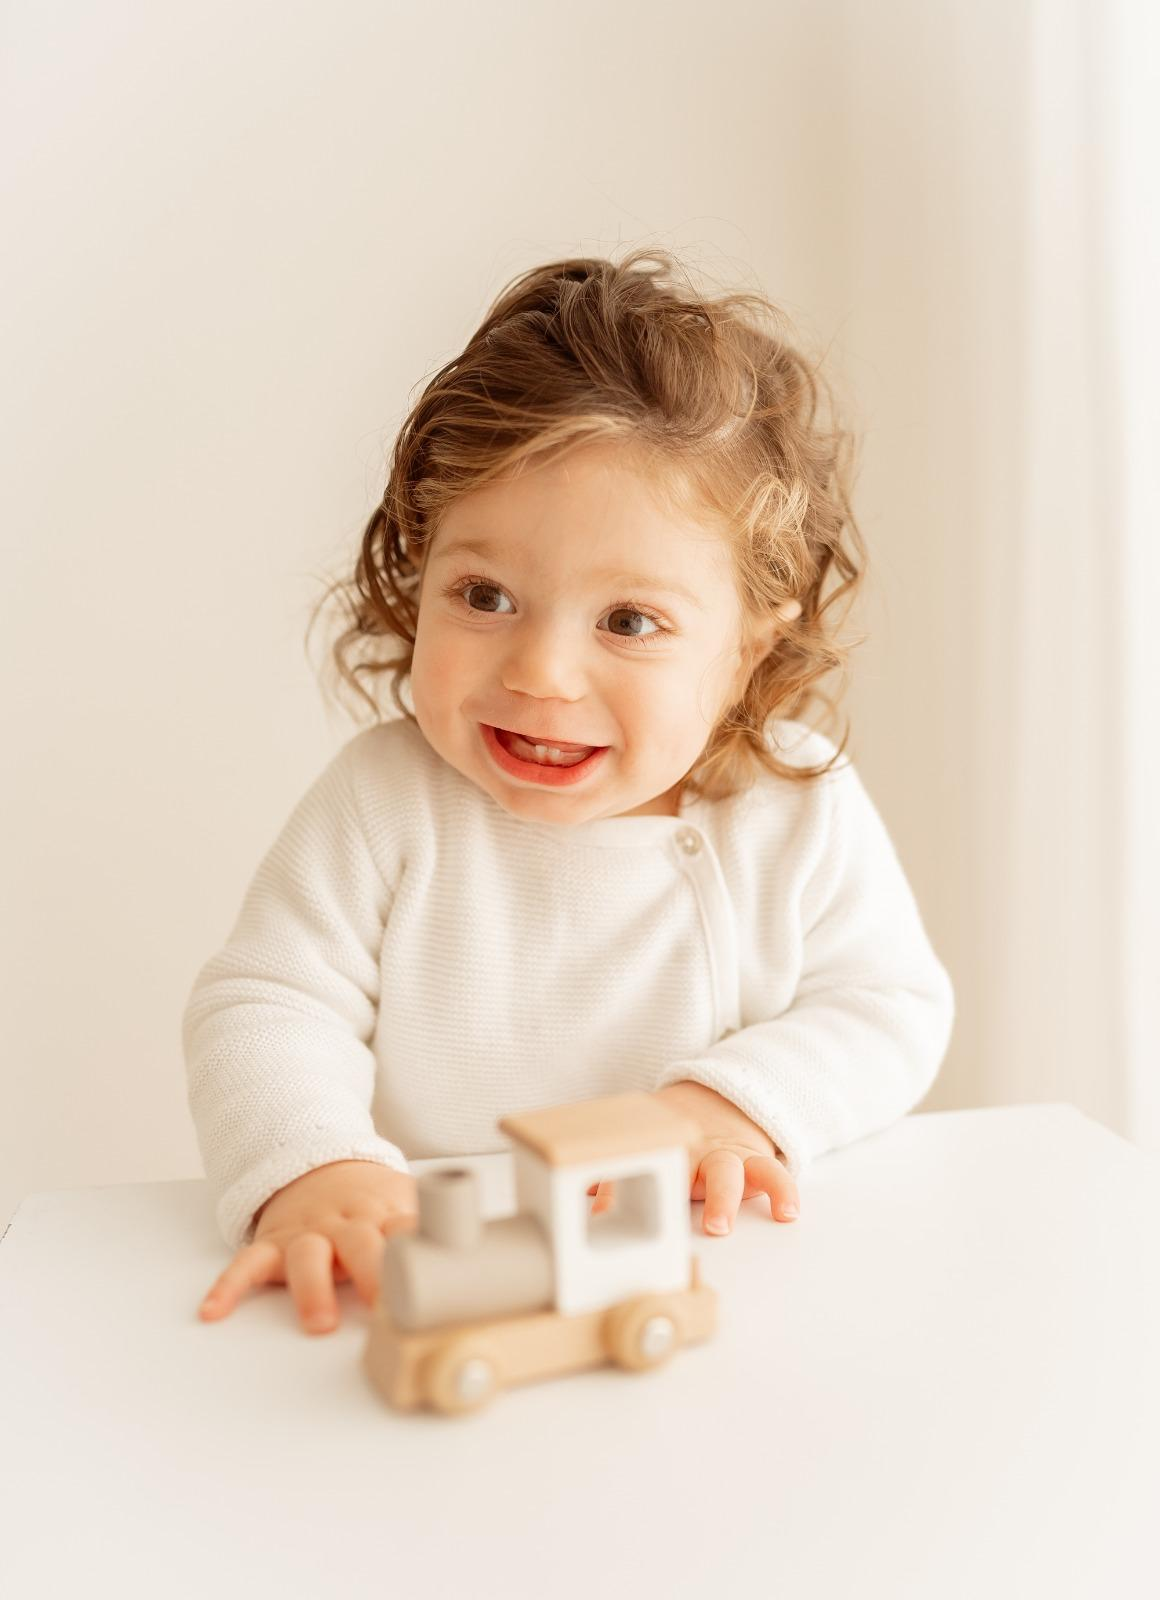
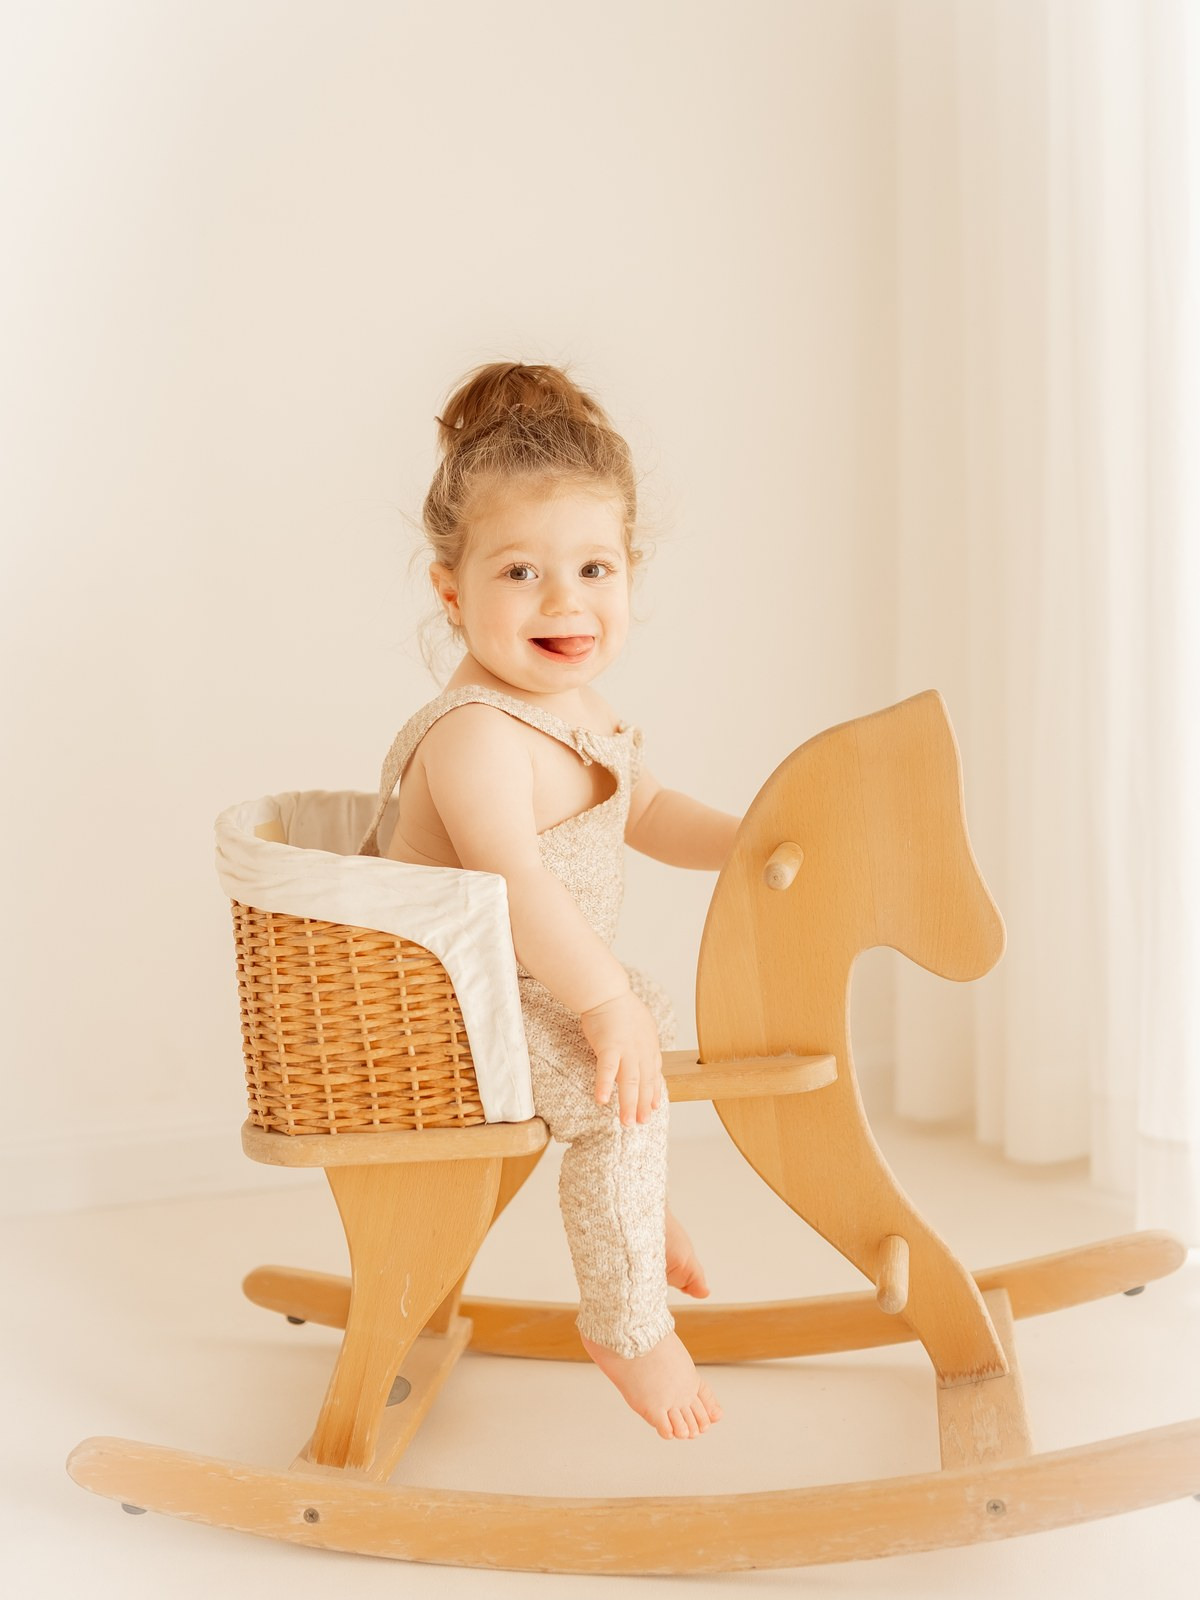
Rebrand: Pickup Planner → Roditi Family Planner + new Yali photo
Brand:
- App name across PWA manifest, root layout title, header, landing page,
  demo-login, email subjects/signatures, WhatsApp invite copy, cron emails.
- Icons (favicon + Apple touch icon): "P" → "R" on the sage square.
- Header logo: 2-line lockup ("Roditi" in display serif over the small-caps
  "Family Planner" tagline) with a refined 8x8 sage tile.
- Landing + demo-login pick up the same 2-line lockup.

Yali photo:
- New full-body rocking-horse portrait swapped in (sourced from "Yali new.JPG"
  in Downloads, processed through PIL to a web-friendly 1200×1600 / Q88).
- ChildAvatar Yali object-position bumped to 50% 22% so the new framing
  shows her face cleanly when the avatar container is taller than 3:4.

diff --git a/app/(app)/layout.tsx b/app/(app)/layout.tsx
@@ -13,9 +13,12 @@ export default async function AppLayout({ children }: { children: React.ReactNod
     <div className="min-h-screen flex flex-col">
       <header className="border-b border-black/5 bg-cream-50/80 backdrop-blur sticky top-0 z-10">
         <div className="mx-auto max-w-7xl px-3 sm:px-5 h-14 flex items-center gap-2 justify-between">
-          <Link href={isAdmin ? '/admin' : '/my-pickups'} className="flex items-center gap-2">
-            <div className="h-7 w-7 rounded-lg bg-sage-500 grid place-items-center text-cream-50 font-display">P</div>
-            <span className="font-display text-base">Pickup Planner</span>
+          <Link href={isAdmin ? '/admin' : '/my-pickups'} className="flex items-center gap-2.5">
+            <div className="h-8 w-8 rounded-lg bg-sage-500 grid place-items-center text-cream-50 font-display text-base shadow-sm">R</div>
+            <div className="leading-tight">
+              <div className="font-display text-base sm:text-[17px] tracking-tight leading-none">Roditi</div>
+              <div className="text-[10px] uppercase tracking-[0.18em] text-ink-700/55 font-semibold leading-none mt-0.5">Family Planner</div>
+            </div>
           </Link>
           <nav className="flex items-center gap-0.5 text-sm">
             {isAdmin && <NavLink href="/admin">Dashboard</NavLink>}

diff --git a/lib/notify.ts b/lib/notify.ts
@@ -27,7 +27,7 @@ export const emailProvider: NotifyProvider = {
     }
     const resend = new Resend(process.env.RESEND_API_KEY);
     const { data, error } = await resend.emails.send({
-      from: process.env.REMINDER_FROM_EMAIL || 'Pickup Planner <onboarding@resend.dev>',
+      from: process.env.REMINDER_FROM_EMAIL || 'Roditi Family Planner <onboarding@resend.dev>',
       to,
       subject,
       text: body,
@@ -59,7 +59,7 @@ export function renderReminder(slot: SlotView) {
   if (dest) lines.push(`Drop off at: ${dest}${destAddr ? ` (${destAddr})` : ''}`);
   if (slot.notes) lines.push(`Note: ${slot.notes}`);
   lines.push('');
-  lines.push('— Pickup Planner');
+  lines.push('— Roditi Family Planner');
 
   return {
     subject: `Today: pick up ${slot.child.name} at ${slot.pickup_time.slice(0, 5)} from ${pickup}`,
@@ -131,7 +131,7 @@ export function renderClaimConfirmation(slot: SlotView, helperName: string | nul
     lines.push(slot.notes);
     lines.push('');
   }
-  lines.push('— Pickup Planner');
+  lines.push('— Roditi Family Planner');
 
   return {
     subject: `Pickup confirmed: ${kidNames} on ${dateLabel} at ${time}`,

diff --git a/app/demo-login/page.tsx b/app/demo-login/page.tsx
@@ -30,10 +30,10 @@ export default function DemoLogin() {
     <main className="min-h-screen grid place-items-center px-6 py-10">
       <div className="w-full max-w-xl">
         <div className="flex items-center gap-3 mb-8">
-          <div className="h-10 w-10 rounded-xl bg-sage-500 grid place-items-center text-cream-50 font-display text-xl">P</div>
-          <div>
-            <div className="font-display text-xl leading-none">Pickup Planner</div>
-            <div className="text-xs text-ink-700/60 mt-0.5">Demo — sign in as anyone in the family</div>
+          <div className="h-11 w-11 rounded-2xl bg-sage-500 grid place-items-center text-cream-50 font-display text-xl">R</div>
+          <div className="leading-tight">
+            <div className="font-display text-xl leading-none tracking-tight">Roditi</div>
+            <div className="text-[10px] uppercase tracking-[0.2em] text-ink-700/55 font-semibold mt-1">Family Planner</div>
           </div>
         </div>
 

diff --git a/app/page.tsx b/app/page.tsx
@@ -50,10 +50,10 @@ export default async function Landing() {
       <div className="mx-auto max-w-md px-5 sm:px-6 pt-10 sm:pt-14 pb-16">
         {/* Brand */}
         <div className="flex items-center gap-3 mb-8">
-          <div className="h-11 w-11 rounded-xl bg-sage-500 grid place-items-center text-cream-50 font-display text-xl shadow-sm">P</div>
-          <div>
-            <div className="font-display text-xl leading-none">Pickup Planner</div>
-            <div className="text-xs text-ink-700/60 mt-0.5">The Roditi family</div>
+          <div className="h-12 w-12 rounded-2xl bg-sage-500 grid place-items-center text-cream-50 font-display text-2xl shadow-sm">R</div>
+          <div className="leading-tight">
+            <div className="font-display text-xl leading-none tracking-tight">Roditi</div>
+            <div className="text-[10px] uppercase tracking-[0.2em] text-ink-700/55 font-semibold mt-1">Family Planner</div>
           </div>
         </div>
 

diff --git a/components/ChildAvatar.tsx b/components/ChildAvatar.tsx
@@ -1,15 +1,15 @@
 'use client';
 
 /**
- * Per-child framing tweaks. Yali's source frames her face tighter than the
- * boys, so her photo file is pre-padded with her brand color (peach) — that
- * lets a single object-position rule work for all three.
+ * Per-child framing tweaks. With the new full-body Yali photo (rocking
+ * horse), her face sits in the upper-third of the frame — nudging
+ * object-position up biases the crop toward the head when the container
+ * is taller than the source ratio.
  */
 function photoStyle(name: string): React.CSSProperties {
   const n = (name ?? '').toLowerCase();
   if (n === 'yali') {
-    // The padded canvas shifts Yali's face higher; bias the crop further up.
-    return { objectPosition: '50% 38%' };
+    return { objectPosition: '50% 22%' };
   }
   return { objectPosition: '50% 28%' };
 }

diff --git a/app/api/cron/reminders/route.ts b/app/api/cron/reminders/route.ts
@@ -78,7 +78,7 @@ export async function GET(req: NextRequest) {
           if (!p?.email) continue;
           await emailProvider.send({
             to: p.email,
-            subject: `Pickup Planner: ${orphans.length} unclaimed pickup${orphans.length > 1 ? 's' : ''} today`,
+            subject: `Roditi Family Planner: ${orphans.length} unclaimed pickup${orphans.length > 1 ? 's' : ''} today`,
             body: `Today still has ${orphans.length} unclaimed pickup(s):\n\n` +
               orphans.map((o) => `• ${o.child.name} at ${o.pickup_time.slice(0, 5)} — ${o.title}`).join('\n'),
           });

diff --git a/app/manifest.ts b/app/manifest.ts
@@ -7,9 +7,9 @@ import type { MetadataRoute } from 'next';
  */
 export default function manifest(): MetadataRoute.Manifest {
   return {
-    name: 'Pickup Planner',
-    short_name: 'Pickups',
-    description: 'Family pickup planning — see the week, claim a pickup, get a reminder.',
+    name: 'Roditi Family Planner',
+    short_name: 'Roditi',
+    description: 'The Roditi family planner — pickups, schedules, reminders, and the small things that make a week run.',
     start_url: '/my-pickups',
     display: 'standalone',
     orientation: 'portrait',

diff --git a/app/layout.tsx b/app/layout.tsx
@@ -2,8 +2,8 @@ import type { Metadata, Viewport } from 'next';
 import './globals.css';
 
 export const metadata: Metadata = {
-  title: 'Pickup Planner — Roditi Family',
-  description: 'Weekly pickup planning for grandparents and helpers.',
+  title: 'Roditi Family Planner',
+  description: 'The Roditi family planner — pickups, schedules, and the small things that make a week run.',
 };
 
 export const viewport: Viewport = {

diff --git a/app/_actions/admin.ts b/app/_actions/admin.ts
@@ -287,7 +287,7 @@ export async function sendTestReminderAction() {
   await emailProvider.send({
     to: ctx.profile.email,
     subject: `[TEST] ${subject}`,
-    body: `(This is a test from Pickup Planner — it's what helpers receive in the morning.)\n\n${body}`,
+    body: `(This is a test from Roditi Family Planner — it's what helpers receive in the morning.)\n\n${body}`,
   });
   revalidatePath('/admin/reminders');
 }

diff --git a/components/WhatsAppButton.tsx b/components/WhatsAppButton.tsx
@@ -14,7 +14,7 @@ export default function WhatsAppButton({
   const message = [
     `Hi ${first}! 👋`,
     ``,
-    `Here's your personal Pickup Planner link for the family this week. Tap it to see what's on and claim any pickups you can do:`,
+    `Here's your personal Roditi Family Planner link for the week. Tap it to see what's on and claim any pickups you can do:`,
     ``,
     link,
     ``,

diff --git a/app/apple-icon.tsx b/app/apple-icon.tsx
@@ -37,7 +37,7 @@ export default function AppleIcon() {
             boxShadow: '0 8px 16px rgba(20,20,16,0.18)',
           }}
         >
-          P
+          R
         </div>
       </div>
     ),

diff --git a/app/icon.tsx b/app/icon.tsx
@@ -22,7 +22,7 @@ export default function Icon() {
           borderRadius: 6,
         }}
       >
-        P
+        R
       </div>
     ),
     size
